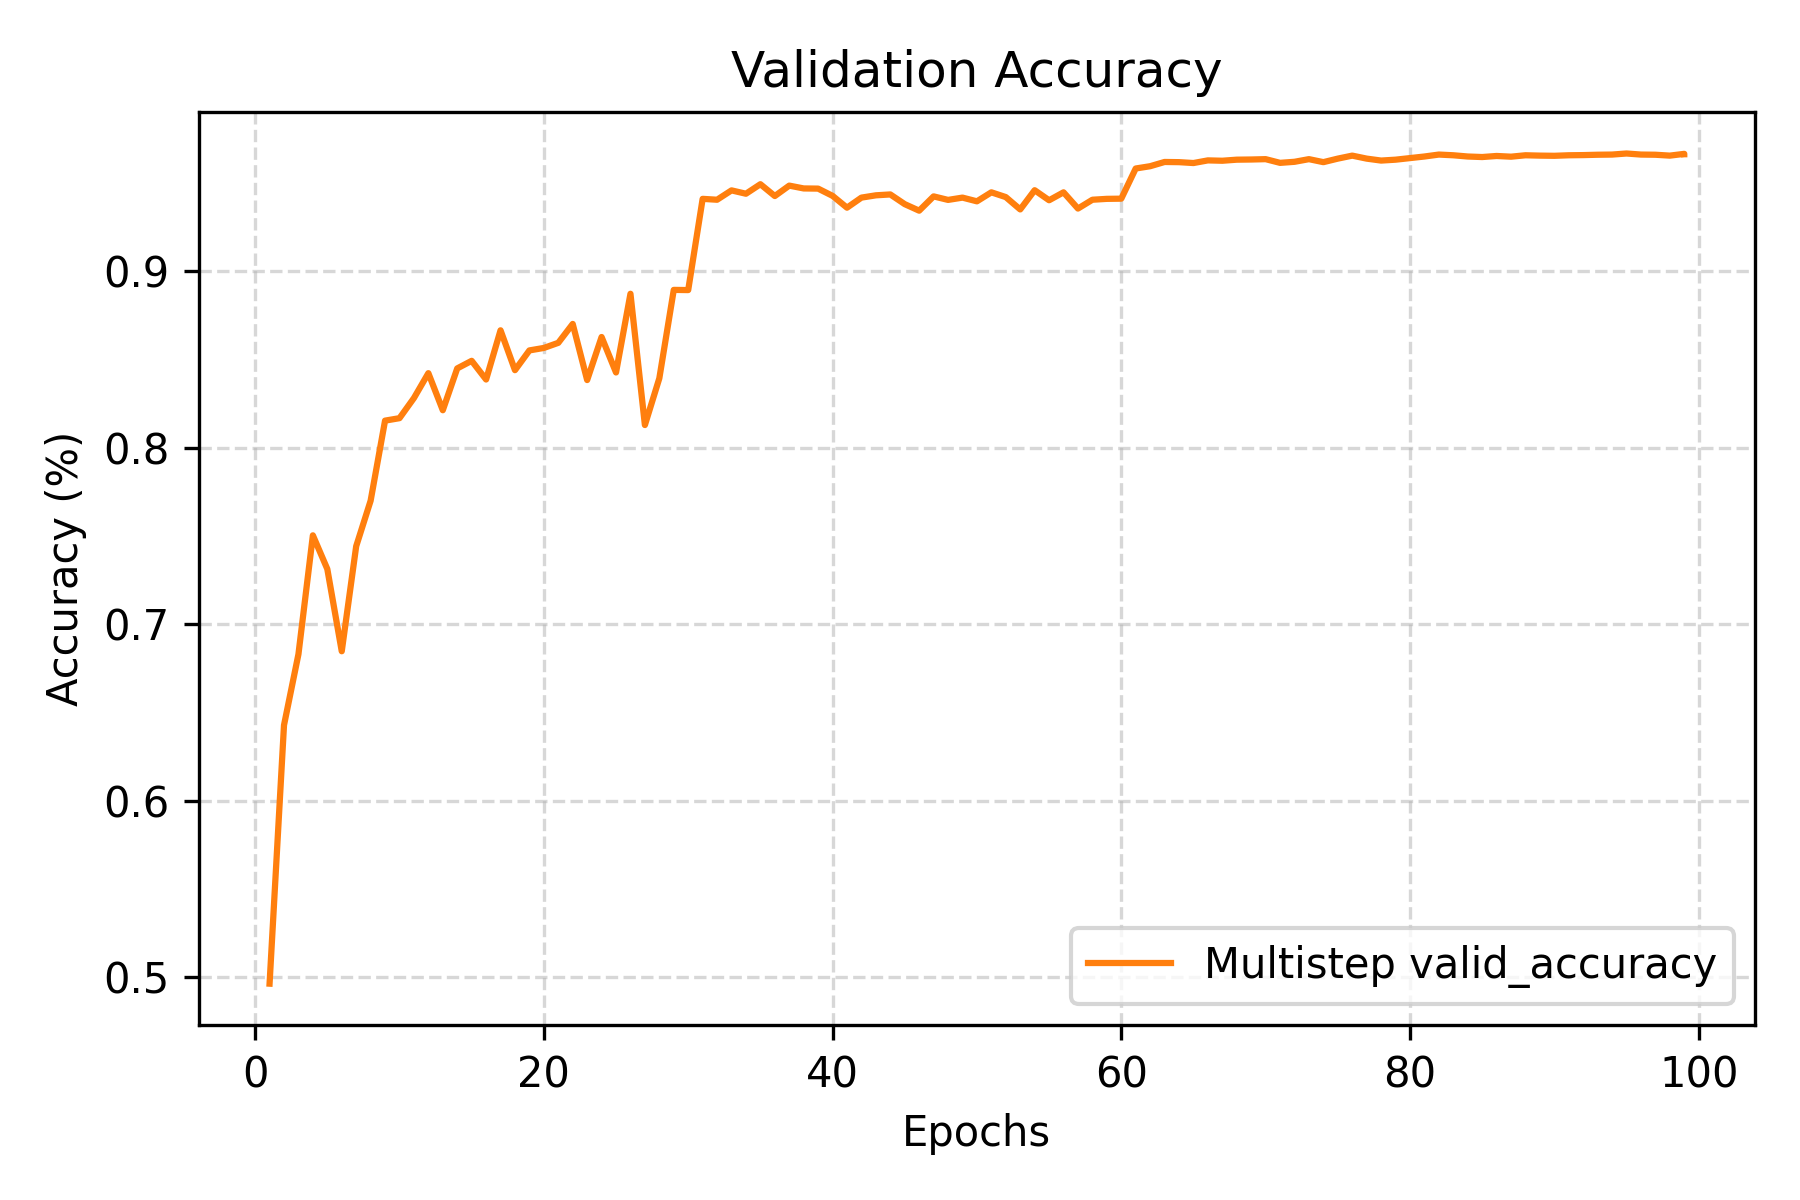
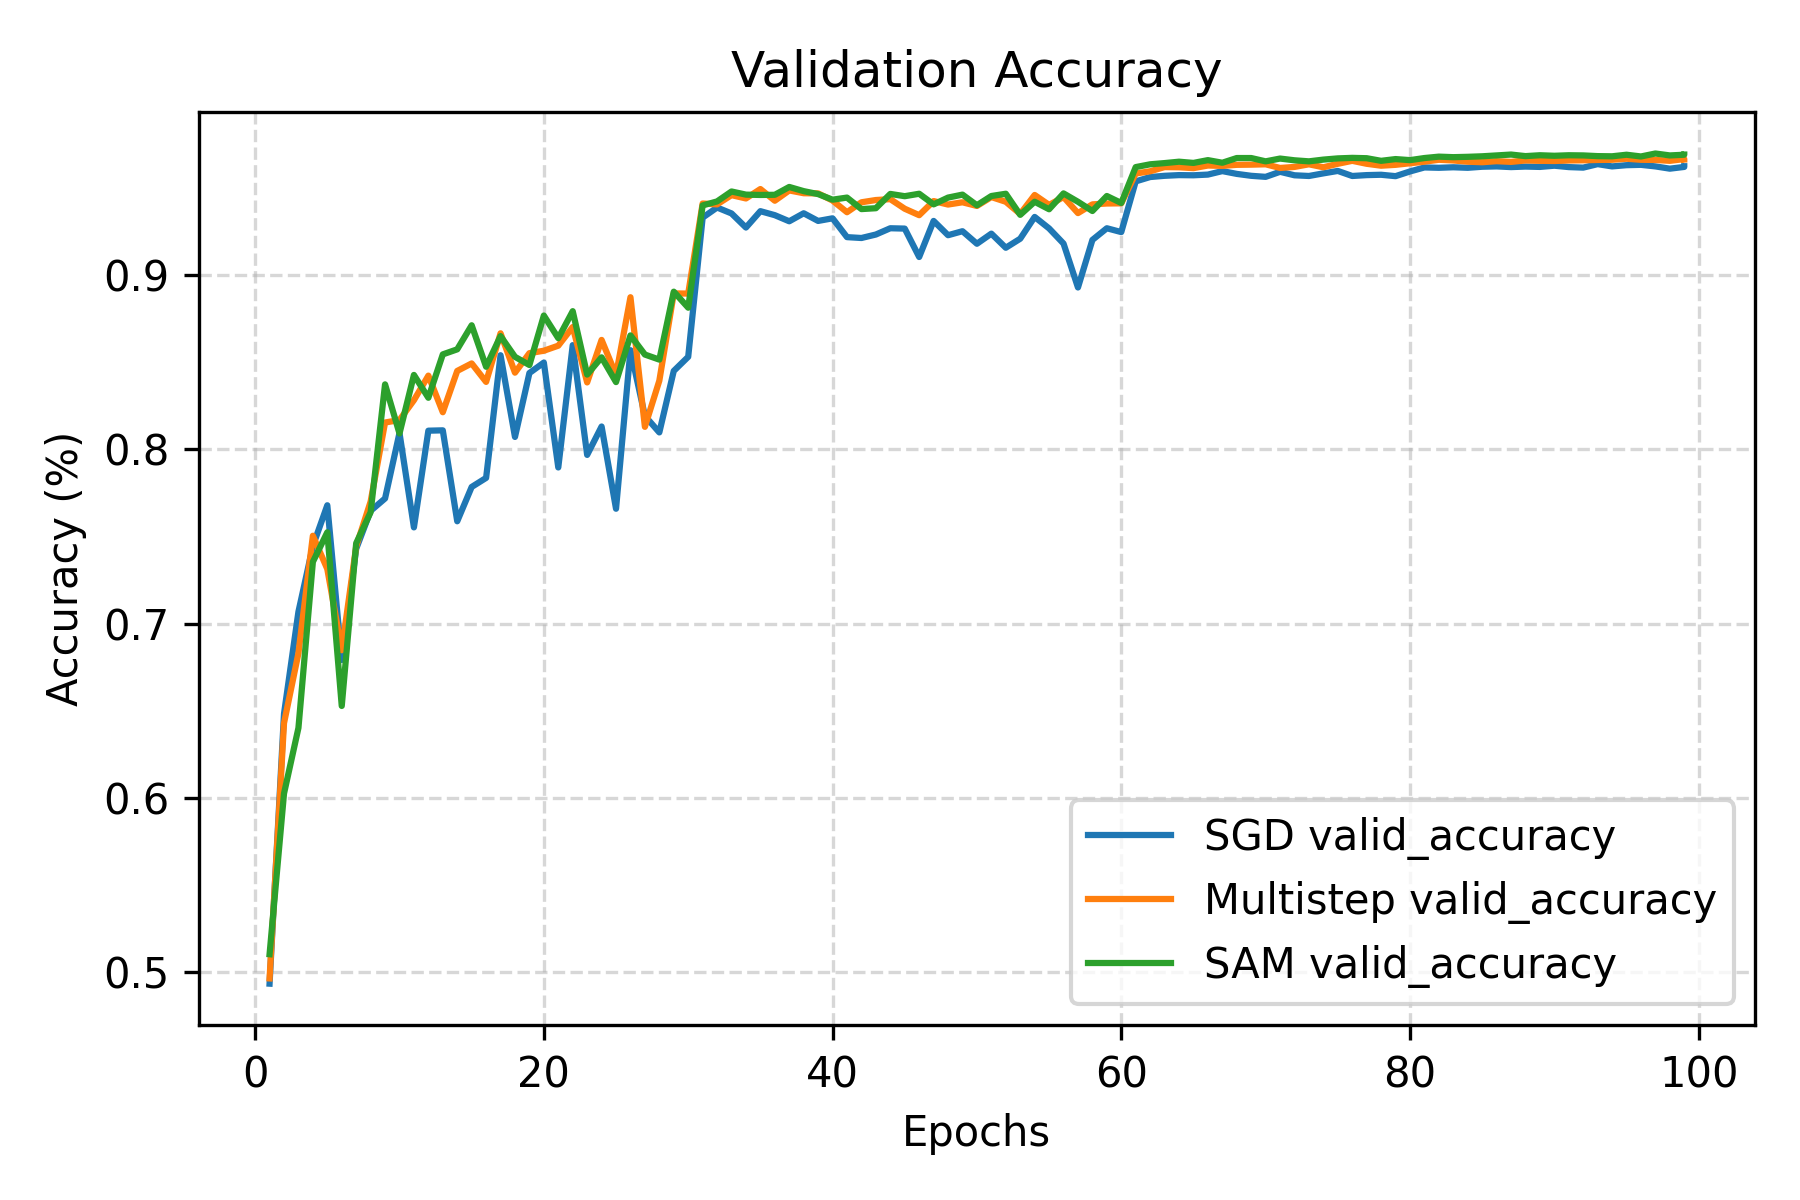
update wrn results

Changed region(s): [[0.0622, 0.1233, 0.9644, 0.8325], [0.0622, 0.7092, 0.5911, 0.8325], [0.0622, 0.37, 0.0933, 0.4008]]

diff --git a/example/train.py b/example/train.py
@@ -27,7 +27,7 @@ if __name__ == "__main__":
     parser.add_argument("--rho", default=2.0, type=int, help="Rho parameter for SAM.")
     parser.add_argument("--weight_decay", default=0.0005, type=float, help="L2 weight decay.")
     parser.add_argument("--width_factor", default=8, type=int, help="How many times wider compared to normal ResNet.")
-    parser.add_argument("--model", default="cnn", type = str, choices=["cnn", "wrn"], help = "Type of model that learns.")
+    parser.add_argument("--model", default="wrn", type = str, choices=["cnn", "wrn"], help = "Type of model that learns.")
     args = parser.parse_args()
 
     initialize(args, seed=42)

diff --git a/example/train_sgd.py b/example/train_sgd.py
@@ -26,7 +26,7 @@ if __name__ == "__main__":
     parser.add_argument("--rho", default=2.0, type=int, help="Rho parameter for SAM.")
     parser.add_argument("--weight_decay", default=0.0005, type=float, help="L2 weight decay.")
     parser.add_argument("--width_factor", default=8, type=int, help="How many times wider compared to normal ResNet.")
-    parser.add_argument("--model", default="cnn", type = str, choices=["cnn", "wrn"], help = "Type of model that learns.")
+    parser.add_argument("--model", default="wrn", type = str, choices=["cnn", "wrn"], help = "Type of model that learns.")
 
     args = parser.parse_args()
 
